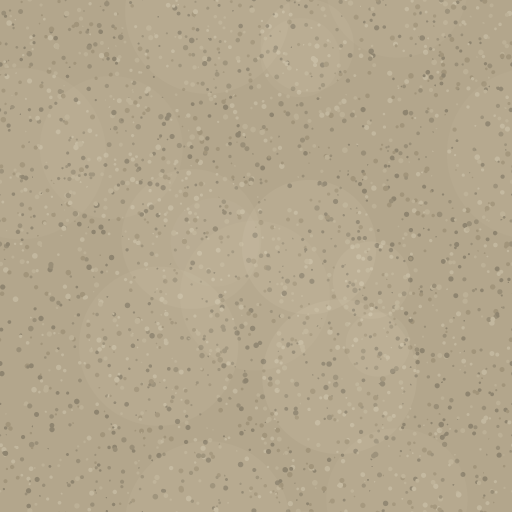
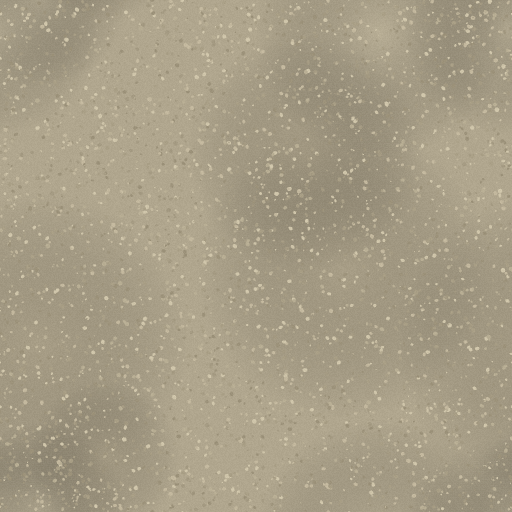
Rötuşlar: otoyol rampa şeritleri + metropol dikine çizgi kalktı; gemi-tanker; deniz trafiği sağdan/soldan; zemin dokuları v2; DEPO EXPLOIT fixi
- otoyol: yavaşlama/hızlanma asfalt bantları kaldırıldı (yan yol görünümü) —
  onRampFull kapasite mekaniği duruyor
- metropol: yolu dikine kesen sözde-zebra çizgisi kaldırıldı
- marina: yakıt GEMİYLE gelir (kenney ship-cargo-a, suda x≥6.8'e yanaşır);
  seyir kanalı ikiye ayrıldı — gelen 13.6 / çıkan 19.4, yeşil şamandıra
  hattı (17.2) orta ayırıcı; pontonlar ana iskelenin parmakları (x 23)
- zemin: parke taşı (şaşırtmalı sıra + derz + tane) ve çakıl (leke + ince
  tane) dokuları yeniden üretildi
- EXPLOIT (Oğuz raporu): sipariş artık ŞUBEYE bağlı (LocSnapshot.orders) +
  deliverFuel'daki `|| orderNeed` fallback'i kaldırıldı + kayıtta amount
  restore — küçük şubede 4k'ya sipariş verip ana şubede 20k litre bedava
  doldurma kapandı

diff --git a/src/state.ts b/src/state.ts
@@ -34,6 +34,11 @@ export interface LocSnapshot {
   tankCounts: Record<string, number>
   prices: Record<string, number>
   pendingCash: Record<string, number>
+  /** EXPLOIT FİXİ (Oğuz): sipariş ŞUBEYE bağlıdır — küçük şubede verilen ucuz
+   *  sipariş ana şubenin 20k deposunu dolduruyordu. Eski snapshot'larda alan yok
+   *  → applyLoc fresh (sipariş yok) uygular. */
+  orders?: Record<string, { pending: boolean; eta: number; arrived: boolean; delivering: boolean; amount: number }>
+  orderQty?: Record<string, number>
   ownedParcels: string[]
   pavedParcels: string[]
   autoPumps: number[]
@@ -698,6 +703,8 @@ export class GameState {
       f,
       tanks: { ...this.tanks }, tankCounts: { ...this.tankCounts }, prices: { ...this.prices },
       pendingCash: { ...this.pendingCash },
+      orders: JSON.parse(JSON.stringify(this.orders)),
+      orderQty: { ...this.orderQty },
       ownedParcels: [...this.ownedParcels], pavedParcels: [...this.pavedParcels],
       autoPumps: [...this.autoPumps], autoChargers: [...this.autoChargers],
       brokenPumps: [...this.brokenPumps], brokenChargers: [...this.brokenChargers],
@@ -718,6 +725,19 @@ export class GameState {
     copyRec(this.tankCounts as unknown as Record<string, number>, sn?.tankCounts, fresh.tankCounts as unknown as Record<string, number>)
     copyRec(this.prices as unknown as Record<string, number>, sn?.prices, fresh.prices as unknown as Record<string, number>)
     this.pendingCash = { ...(sn?.pendingCash ?? {}) }
+    // sipariş ŞUBEYE bağlı: bu şubede bekleyen tanker varsa döner, yoksa temiz başlar
+    for (const f of Object.keys(this.orders) as FuelType[]) {
+      const so = sn?.orders?.[f]
+      // 'delivering' iken şube değişirse tanker nesnesi yok olur → 'arrived' olarak
+      // dön; ana döngü bu şubeye dönüldüğünde yeni tanker spawn edip teslim eder.
+      this.orders[f] = so
+        ? { pending: !!so.pending && !so.arrived && !so.delivering,
+            eta: Number(so.eta) || 0,
+            arrived: !!so.arrived || !!so.delivering,
+            delivering: false, amount: Math.max(0, Number(so.amount) || 0) }
+        : { pending: false, eta: 0, arrived: false, delivering: false, amount: 0 }
+      this.orderQty[f] = Number(sn?.orderQty?.[f] ?? fresh.orderQty[f]) || fresh.orderQty[f]
+    }
     this.ownedParcels = new Set(sn?.ownedParcels ?? fresh.ownedParcels)
     this.pavedParcels = new Set(sn?.pavedParcels ?? fresh.pavedParcels)
     this.autoPumps = new Set(sn?.autoPumps ?? [])
@@ -1161,8 +1181,12 @@ export class GameState {
   }
 
   deliverFuel(f: FuelType) {
-    // sipariş edilen partiyi ekle (tam doldurma değil); kapasiteyi aşma
-    const add = this.orders[f].amount || this.orderNeed(f)
+    // sipariş edilen partiyi ekle (tam doldurma değil); kapasiteyi aşma.
+    // EXPLOIT FİXİ: eski `|| this.orderNeed(f)` fallback'i, amount'u kaybolmuş
+    // (eski kayıt / şube değişimi) siparişlerde AKTİF şubenin TÜM ihtiyacını
+    // BEDAVA dolduruyordu — küçük şubede 4k öde, ana şubede 20k litre al.
+    // Ödenmemiş litre eklenmez: amount yoksa teslimat boş kapanır.
+    const add = Math.max(0, this.orders[f].amount || 0)
     this.tanks[f] = Math.min(this.fuelCapacity(f), this.tanks[f] + add)
     this.orders[f].amount = 0
   }
@@ -1949,9 +1973,13 @@ export function hydrateState(s: GameState, data: Record<string, unknown>) {
   }
   if (data.orders && typeof data.orders === 'object') {
     for (const f of FUELS) {
-      const o = (data.orders as Record<string, { pending?: boolean; eta?: number; arrived?: boolean; delivering?: boolean }>)[f]
+      const o = (data.orders as Record<string, { pending?: boolean; eta?: number; arrived?: boolean; delivering?: boolean; amount?: number }>)[f]
       if (o) {
         s.orders[f].eta = Math.min(60, Math.max(0, Number(o.eta) || 0))
+        // EXPLOIT FİXİ: amount restore edilmiyordu → 0 kalıp deliverFuel'daki eski
+        // fallback aktif şubenin tüm ihtiyacını bedava ekliyordu. Ödenen parti
+        // miktarı artık kayıttan döner (üst sınır: tek partide max 60k).
+        s.orders[f].amount = Math.min(60_000, Math.max(0, Number(o.amount) || 0))
         // Tanker (fiziksel araç) kaydedilmez. 'delivering' (yolda) ya da 'arrived'
         // iken yenilenirse tanker nesnesi kaybolur ve teslimat asla tamamlanmazdı —
         // sipariş sonsuza dek "yolda" takılırdı. Bunları 'arrived' olarak geri yükle;

diff --git a/src/world.ts b/src/world.ts
@@ -416,17 +416,9 @@ export class World {
       // orta bariyer (new-jersey): karşıya geçiş fiziksel olarak YOK
       const barrier = new THREE.Mesh(new THREE.BoxGeometry(0.55, 220, 0.85), lam(0xd6d2c6))
       barrier.position.set(ROAD_X, 0, 0.42); s.add(barrier)
-      // YAVAŞLAMA + HIZLANMA şeridi: apron boyunca yola paralel ek asfalt bandı
-      const gi = APRON_IN_Y, go = APRON_OUT_Y
-      const decel = new THREE.Mesh(new THREE.PlaneGeometry(2.2, th.lane.rampLength), roadMat)
-      decel.position.set(ROAD_X - 3.0, gi - th.lane.rampLength / 2 + 2, 0.012); s.add(decel)
-      const accel = new THREE.Mesh(new THREE.PlaneGeometry(2.2, th.lane.rampLength + 4), roadMat)
-      accel.position.set(ROAD_X - 3.0, go + (th.lane.rampLength + 4) / 2 - 2, 0.012); s.add(accel)
-      // ramp kenar çizgileri (kesikli değil: sürekli, çıkış/giriş şeridi işareti)
-      for (const [cy, len] of [[gi - th.lane.rampLength / 2 + 2, th.lane.rampLength], [go + (th.lane.rampLength + 4) / 2 - 2, th.lane.rampLength + 4]] as [number, number][]) {
-        const line = new THREE.Mesh(new THREE.PlaneGeometry(0.12, len), lam(0xe8e4d8))
-        line.position.set(ROAD_X - 4.1, cy, 0.02); s.add(line)
-      }
+      // RAMPA ASFALTLARI KALDIRILDI (Oğuz: "yan yolu kaldıralım") — yavaşlama/
+      // hızlanma şeridi görselleri istasyon önünde ikinci bir yol gibi okunuyordu.
+      // onRampFull mekaniği (kapasite) DURUYOR; yalnız görsel bant gitti.
       // yüksek direkli aydınlatma (12 m) — otoyol imzası, instanced.
       // x 13.5 claim kolonunda: direkler yalnız |y| > 24'te (parseller açık).
       const HPOLE_Y = [-88, -66, -44, 44, 66, 88]
@@ -482,13 +474,9 @@ export class World {
       }
       this.lightRedLamp = mk(0x5a1e1e, 0.38)
       this.lightGreenLamp = mk(0x1e5a2a, -0.38)
-      // yaya geçidi (zebra) — yaya müşterinin geldiği yer
-      for (let i = 0; i < 7; i++) {
-        const stripe = new THREE.Mesh(new THREE.PlaneGeometry(0.42, 4.4), lam(0xf0efe8))
-        stripe.position.set(ROAD_X - 2.0 + i * 0.62, ly - 3.4, 0.023)
-        stripe.rotation.z = Math.PI / 2
-        s.add(stripe)
-      }
+      // YAYA ÇİZGİSİ KALDIRILDI (Oğuz: "yolun ortasında dikine çizgi — gereği yok").
+      // 7 şerit aynı y'de yan yana dizilince zebra değil tek uzun çizgi görünüyordu;
+      // çevre yolundaki gerçek zebra (canvas dokulu) ayrı ve duruyor.
       // ---- KALDIRIM ----
       // KALDIRILDI: buraya 17 adet 5×7×20'lik düz gri kutu koyan "kentsel siluet"
       // vardı. İki hatası birdendi: (1) x 20.9..25.9 aralığı oyuncunun satın
@@ -1371,8 +1359,10 @@ export class World {
     buoyAt('buoy-flag', 17.20, [-14, -1, 12, 25], 0x3fae5f)
 
     // ---- 5) MİSAFİR PONTONLARI + ANA PONTON + DALGAKIRAN ----
+    // Pontonlar ana iskelenin (23.2) parmak iskeleleri — batı ucu 20.2, çıkış
+    // şeridi (19.4) temiz kalır
     inst(new THREE.BoxGeometry(5.6, 1.1, 0.26), lam2(0xa8875c), 5,
-      (m, i) => m.setPosition(19.8, -16 + i * 8, 0.13))
+      (m, i) => m.setPosition(23.00, -16 + i * 8, 0.13))
     const main = new THREE.Mesh(new THREE.BoxGeometry(1.20, 40, 0.30), lam2(0x9b7f56))
     main.position.set(23.20, 0, 0.15); main.castShadow = true; s.add(main)
     const mole = new THREE.Mesh(new THREE.BoxGeometry(1.80, 44, 1.60), lam2(0x8d8577))

diff --git a/src/cars.ts b/src/cars.ts
@@ -705,8 +705,22 @@ export class Tanker {
     this.gateOutYFn = gateOutY
     const inY = gateInY()
     const tint = fuel === 'benzin' ? 0xa8d6b8 : fuel === 'dizel' ? 0xe3c49b : 0xaccdf0
+    // MARİNA: yakıt GEMİYLE gelir (Oğuz) — kara tankeri denizin üstünde yüzüyordu.
+    // Car.waterMinX su şubesinde CarManager tarafından set edilir; tanker de ona bakar.
+    const isWater = Car.waterMinX != null
     let g: THREE.Group
-    if (lib?.tankerBase) {
+    if (isWater) {
+      g = new THREE.Group()
+      const proto = Car.boatKit?.['ship-cargo-a'] ?? Car.boatKit?.['ship-cargo-b']
+      if (proto) g.add(fitModel(proto, 8.0, 'x'))
+      else g.add(buildBoatMesh('motoryat'))
+      // güvertede yakıt tankı: hangi yakıtın geldiği denizden de okunur
+      const tank = new THREE.Mesh(new THREE.CylinderGeometry(0.55, 0.55, 2.4, 14), lam(tint))
+      tank.rotation.z = Math.PI / 2
+      tank.position.set(-0.4, 0, 1.6)
+      tank.castShadow = true
+      g.add(tank)
+    } else if (lib?.tankerBase) {
       g = new THREE.Group()
       g.add(cloneModel(lib.tankerBase))
       const tank = new THREE.Mesh(new THREE.CylinderGeometry(0.5, 0.5, 1.5, 16), lam(tint))
@@ -740,11 +754,13 @@ export class Tanker {
     this.group = g
     // tank nereye taşınırsa taşınsın: şeritten tank hizasına gel, en yakın kenara park et
     const parkY = target.y + [0, 2.4, -2.4][queueIdx % 3]
-    const parkX = Math.min(Math.max(target.x + 3.2, 3.4), 4.0)
+    // MARİNA: gemi-tanker İSKELENİN DOĞUSUNA (suda, x≥6.8) yanaşır — karaya çıkmaz
+    const parkX = isWater ? 6.8 : Math.min(Math.max(target.x + 3.2, 3.4), 4.0)
+    const laneX = isWater ? 7.4 : 4.2
     this.path = [
       new THREE.Vector3(LANE_NEAR, inY - 3.5, 0),
-      new THREE.Vector3(4.2, inY, 0),
-      new THREE.Vector3(4.2, parkY, 0), // şerit boyunca hizaya
+      new THREE.Vector3(laneX, inY, 0),
+      new THREE.Vector3(laneX, parkY, 0), // şerit boyunca hizaya
       new THREE.Vector3(parkX, parkY, 0), // en yakın kenardan boşaltım — içeri dalmaz
     ]
   }
@@ -783,9 +799,10 @@ export class Tanker {
         this.unloading = false
         this.leaving = true
         const outY = this.gateOutYFn() // canlı çıkış konumu (taşınmış olabilir)
+        const exX = Car.waterMinX != null ? 7.4 : 4.2 // marina: gemi suda kalır
         this.path = [
-          new THREE.Vector3(4.2, this.group.position.y, 0), // düz doğuya, şeride çık
-          new THREE.Vector3(4.2, outY, 0),                  // şerit boyunca GÜNCEL çıkışa
+          new THREE.Vector3(exX, this.group.position.y, 0), // düz doğuya, şeride çık
+          new THREE.Vector3(exX, outY, 0),                  // şerit boyunca GÜNCEL çıkışa
           new THREE.Vector3(LANE_NEAR, outY + 4, 0),
           new THREE.Vector3(LANE_NEAR, 44, 0),
         ]

diff --git a/src/scenery.ts b/src/scenery.ts
@@ -179,12 +179,13 @@ export const MARINA_PLAN: Placement[] = [
   // Ada üstünde tekne/yapı YOK: ilk denemede `boat-house-c` ve `boat-tow-a` çimenin
   // ortasına oturuyordu ("çayırda tekne" görüntüsü). Oğuz'un kısıtı da bu: ada
   // gelişmeyecek. Adadaki tek dikey aksan güneybatı kıyısındaki fener (world.ts).
-  { model: 'boat-tug-a', h: 3.6, x: 20.60, y: -20.00, rot: P / 2, axis: 'x' },
-  { model: 'boat-row-large', h: 2.2, x: 20.20, y: -12.20, rot: P / 2, axis: 'x' },
-  { model: 'boat-row-large', h: 2.0, x: 20.20, y: 4.20, rot: P / 2, axis: 'x' },
-  { model: 'boat-sail-a', h: 4.6, x: 20.40, y: 12.60, rot: P / 2, axis: 'x' },
-  { model: 'boat-house-c', h: 4.8, x: 20.60, y: -4.20, rot: P / 2, axis: 'x' },
-  { model: 'boat-tow-a', h: 4.8, x: 23.60, y: 19.60, rot: P / 2, axis: 'x' },
+  // Bağlı tekneler PONTONLARIN (x 22.3) yanında — çıkış şeridi (19.4) temiz
+  { model: 'boat-tug-a', h: 3.6, x: 22.90, y: -20.00, rot: P / 2, axis: 'x' },
+  { model: 'boat-row-large', h: 2.2, x: 22.60, y: -12.20, rot: P / 2, axis: 'x' },
+  { model: 'boat-row-large', h: 2.0, x: 22.60, y: 4.20, rot: P / 2, axis: 'x' },
+  { model: 'boat-sail-a', h: 4.6, x: 22.80, y: 12.60, rot: P / 2, axis: 'x' },
+  { model: 'boat-house-c', h: 4.8, x: 22.90, y: -4.20, rot: P / 2, axis: 'x' },
+  { model: 'boat-tow-a', h: 4.8, x: 24.20, y: 19.60, rot: P / 2, axis: 'x' },
   { model: 'ship-ocean-liner-small', h: 9.0, x: 31.00, y: 33.00, rot: P / 2, axis: 'x' },
   { model: 'ship-cargo-b', h: 13.0, x: 34.00, y: -30.00, rot: P, axis: 'x' },
 ]

diff --git a/src/themes.ts b/src/themes.ts
@@ -156,10 +156,11 @@ export const THEMES: Record<LocationTheme['id'], LocationTheme> = {
     },
     sky: { day: 0xa8dcea, night: 0x0f2436 },
     palette: { line: 0xffffff, accent: 0x1fa8bc, vegetation: 0x4f8f6a },
-    // SEYİR KANALI: giren tekne 12.40, çıkan 15.20 (ölçüm: gövdeler çakışmıyor,
-    // ada rıhtımı x=5.30, kapı 9.20, dış dalgakıran 25.60 — hepsi çekirdek bantta).
+    // SEYİR KANALI (Oğuz: "şamandıra hattı denizi ikiye bölsün, trafik sağdan/soldan"):
+    // yeşil şamandıra sırası x=17.2 ORTA AYIRICI — gelen 13.6 (ada tarafı),
+    // çıkan 19.4 (açık deniz tarafı). Eski 12.4/15.2 aynı koridora sıkışıyordu.
     lane: { kind: 'water', count: 1, median: false, barrier: false, rampLength: 6, speed: 0.55,
-            service: { near: 12.40, far: 15.20 } },
+            service: { near: 13.60, far: 19.40 } },
     econ: { entryBase: 0.09, priceElasticity: 0.45, repWeight: 1.9, signWeight: 0.25, tipRate: 0.2 },
     unlock: { cash: 5_000_000, stars: 9 },
   },

diff --git a/src/kits.ts b/src/kits.ts
@@ -52,7 +52,9 @@ const MANIFEST: Partial<Record<LocId, { dir: string; files: string[] }>> = {
     files: ['boat-speed-f', 'boat-speed-a', 'boat-fishing-small', 'boat-sail-a',
             'boat-house-c', 'boat-tow-a', 'ship-ocean-liner-small',
             'boat-tug-a', 'boat-row-large',
-            'buoy', 'buoy-flag', 'ship-cargo-b'],
+            'buoy', 'buoy-flag', 'ship-cargo-b',
+            // ship-cargo-a = GEMİ-TANKER (Oğuz: marinaya yakıt gemiyle gelsin)
+            'ship-cargo-a'],
   },
 }
 
